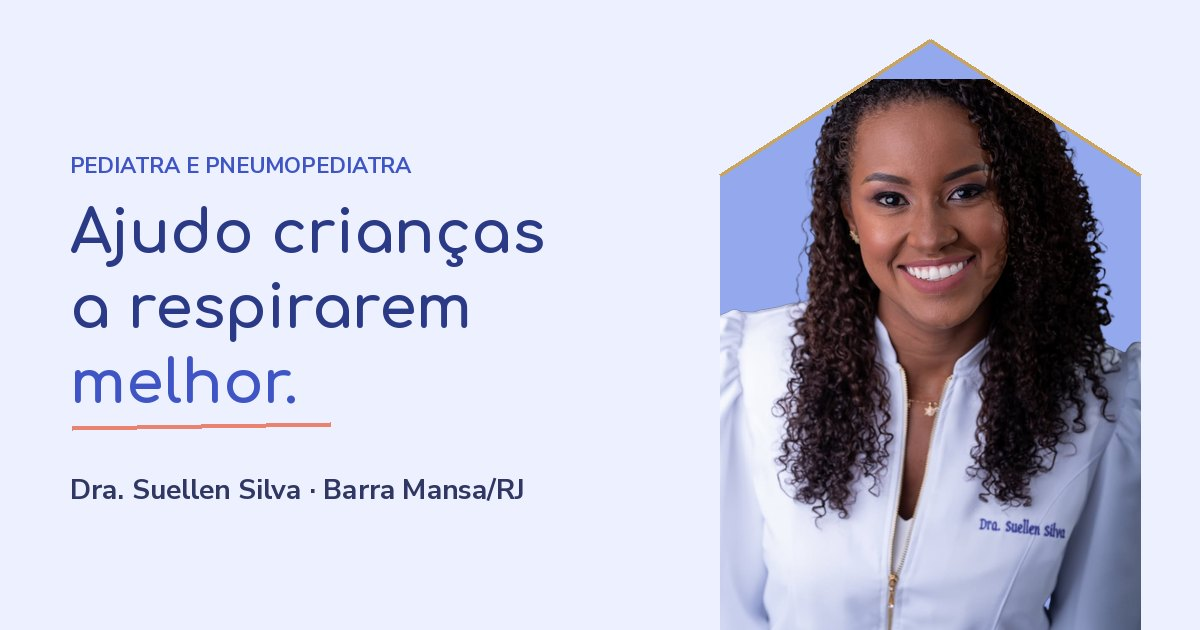
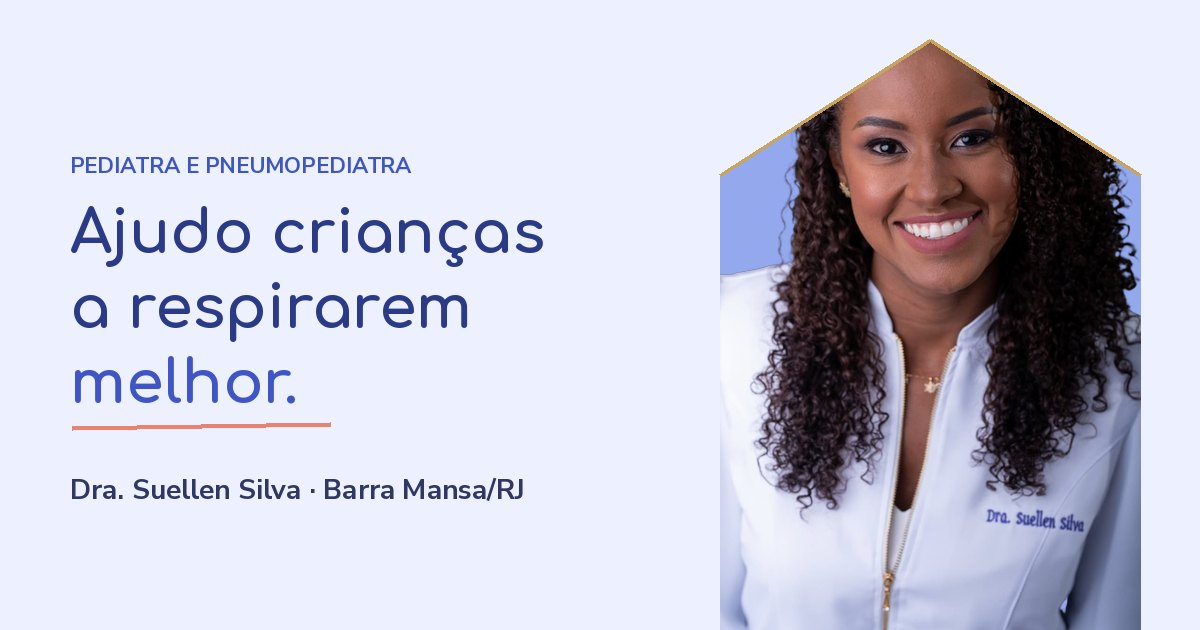
Add files via upload

Changed region(s): [[0.5858, 0.0603, 0.9558, 1.0]]

diff --git a/index.html b/index.html
@@ -7,14 +7,14 @@
 <title>Dra. Suellen Silva · Pediatra e Pneumopediatra em Barra Mansa/RJ</title>
 <meta name="description" content="Pediatra e pneumopediatra em Barra Mansa/RJ. Tosse que não passa, chiado, asma, bronquite, ronco e pneumonias de repetição. Presencial, on-line e domiciliar. Agende pelo WhatsApp.">
 <meta name="theme-color" content="#EDF0FE">
-<!-- DOMÍNIO A CONFIRMAR: trocar https://SEU-DOMINIO.com.br em canonical, og:url, og:image, sitemap.xml e robots.txt -->
-<link rel="canonical" href="https://SEU-DOMINIO.com.br/">
+<!-- Quando o domínio próprio sair: trocar https://drasuellenpneumopediatra.vercel.app em canonical, og:url, og:image, JSON-LD, sitemap.xml e robots.txt -->
+<link rel="canonical" href="https://drasuellenpneumopediatra.vercel.app/">
 <meta property="og:type" content="website">
 <meta property="og:locale" content="pt_BR">
 <meta property="og:title" content="Dra. Suellen Silva · Pediatra e Pneumopediatra em Barra Mansa">
 <meta property="og:description" content="Ajudo crianças a respirarem melhor. Menos crises, mais saúde.">
-<meta property="og:url" content="https://SEU-DOMINIO.com.br/">
-<meta property="og:image" content="https://SEU-DOMINIO.com.br/assets/img/og-dra-suellen-silva.jpg">
+<meta property="og:url" content="https://drasuellenpneumopediatra.vercel.app/">
+<meta property="og:image" content="https://drasuellenpneumopediatra.vercel.app/assets/img/og-dra-suellen-silva.jpg">
 <meta property="og:image:width" content="1200"><meta property="og:image:height" content="630">
 <meta name="twitter:card" content="summary_large_image">
 <link rel="icon" href="assets/img/favicon.svg" type="image/svg+xml">
@@ -30,8 +30,8 @@
   "name":"Dra. Suellen Silva e Silva — Pediatra e Pneumopediatra",
   "medicalSpecialty":["Pediatric","Pulmonary"],
   "description":"Pediatra e pneumologista infantil em Barra Mansa/RJ. Atendimento presencial, on-line e domiciliar.",
-  "image":"https://SEU-DOMINIO.com.br/assets/img/og-dra-suellen-silva.jpg",
-  "url":"https://SEU-DOMINIO.com.br/",
+  "image":"https://drasuellenpneumopediatra.vercel.app/assets/img/og-dra-suellen-silva.jpg",
+  "url":"https://drasuellenpneumopediatra.vercel.app/",
   "telephone":"+55-24-99972-9524",
   "email":"drasuellensilvaesilva@gmail.com",
   "address":{"@type":"PostalAddress","streetAddress":"R. Abdo Felipe, 202 - Sala 801 - Ano Bom Center","addressLocality":"Barra Mansa","addressRegion":"RJ","postalCode":"27323-000","addressCountry":"BR"},
